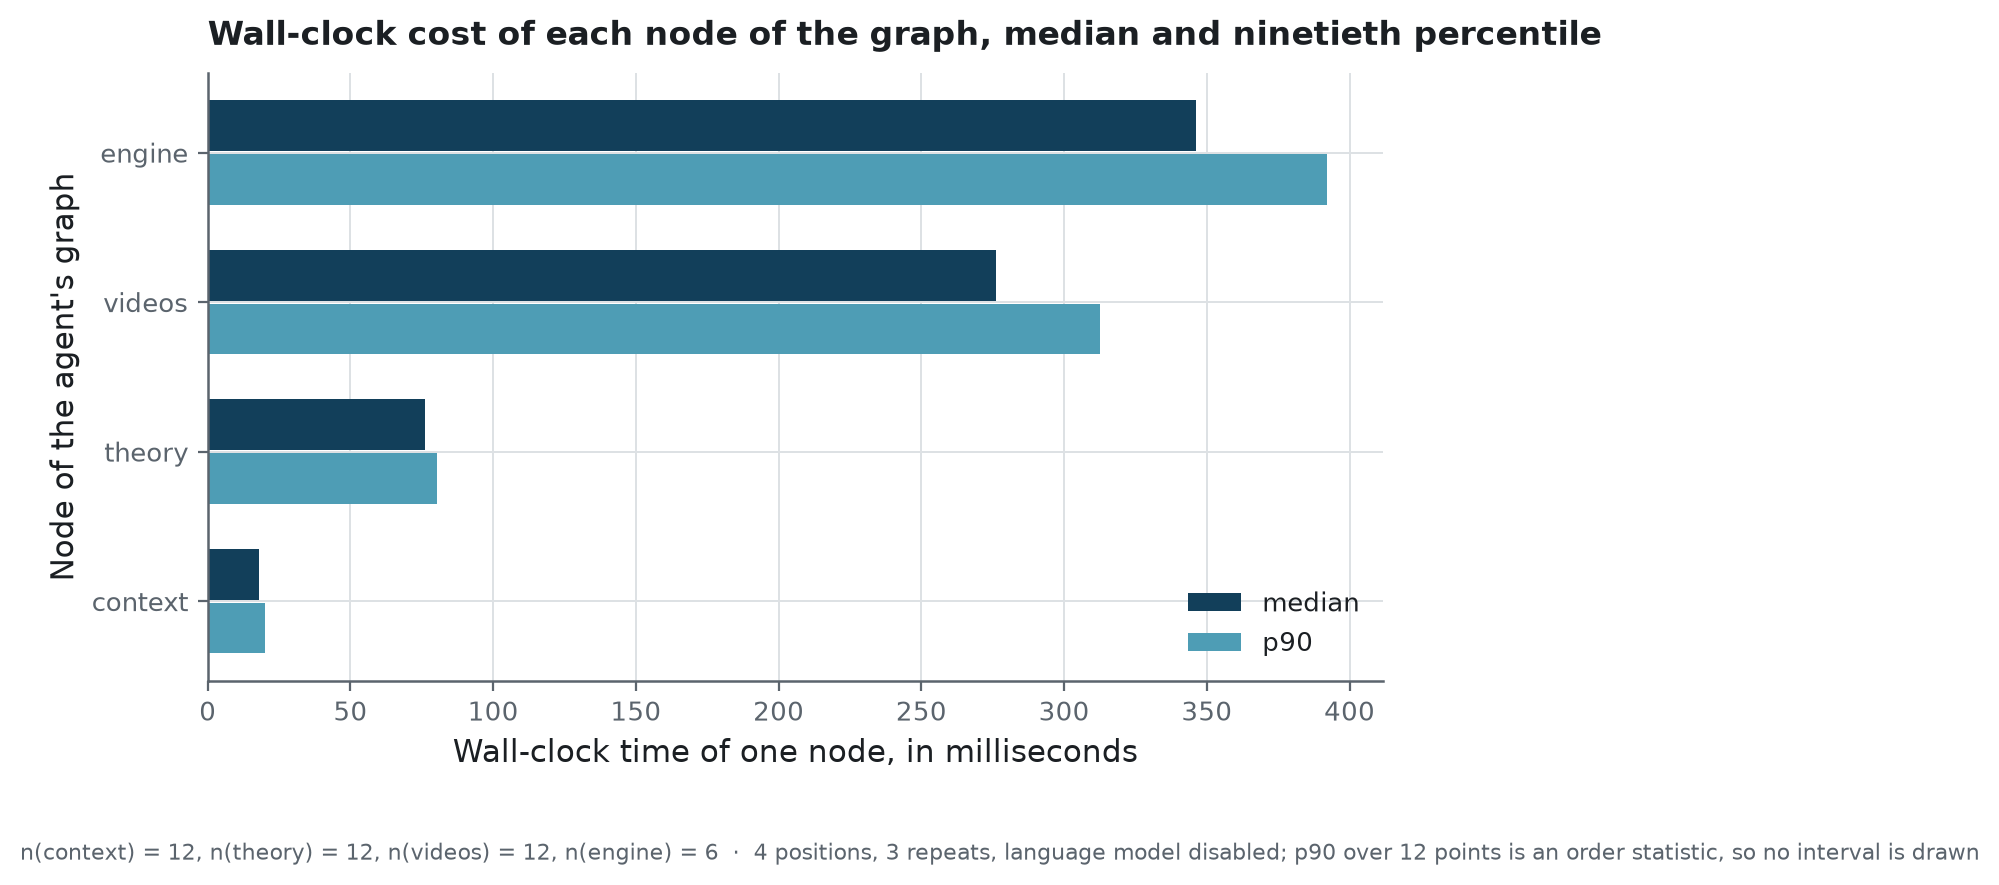
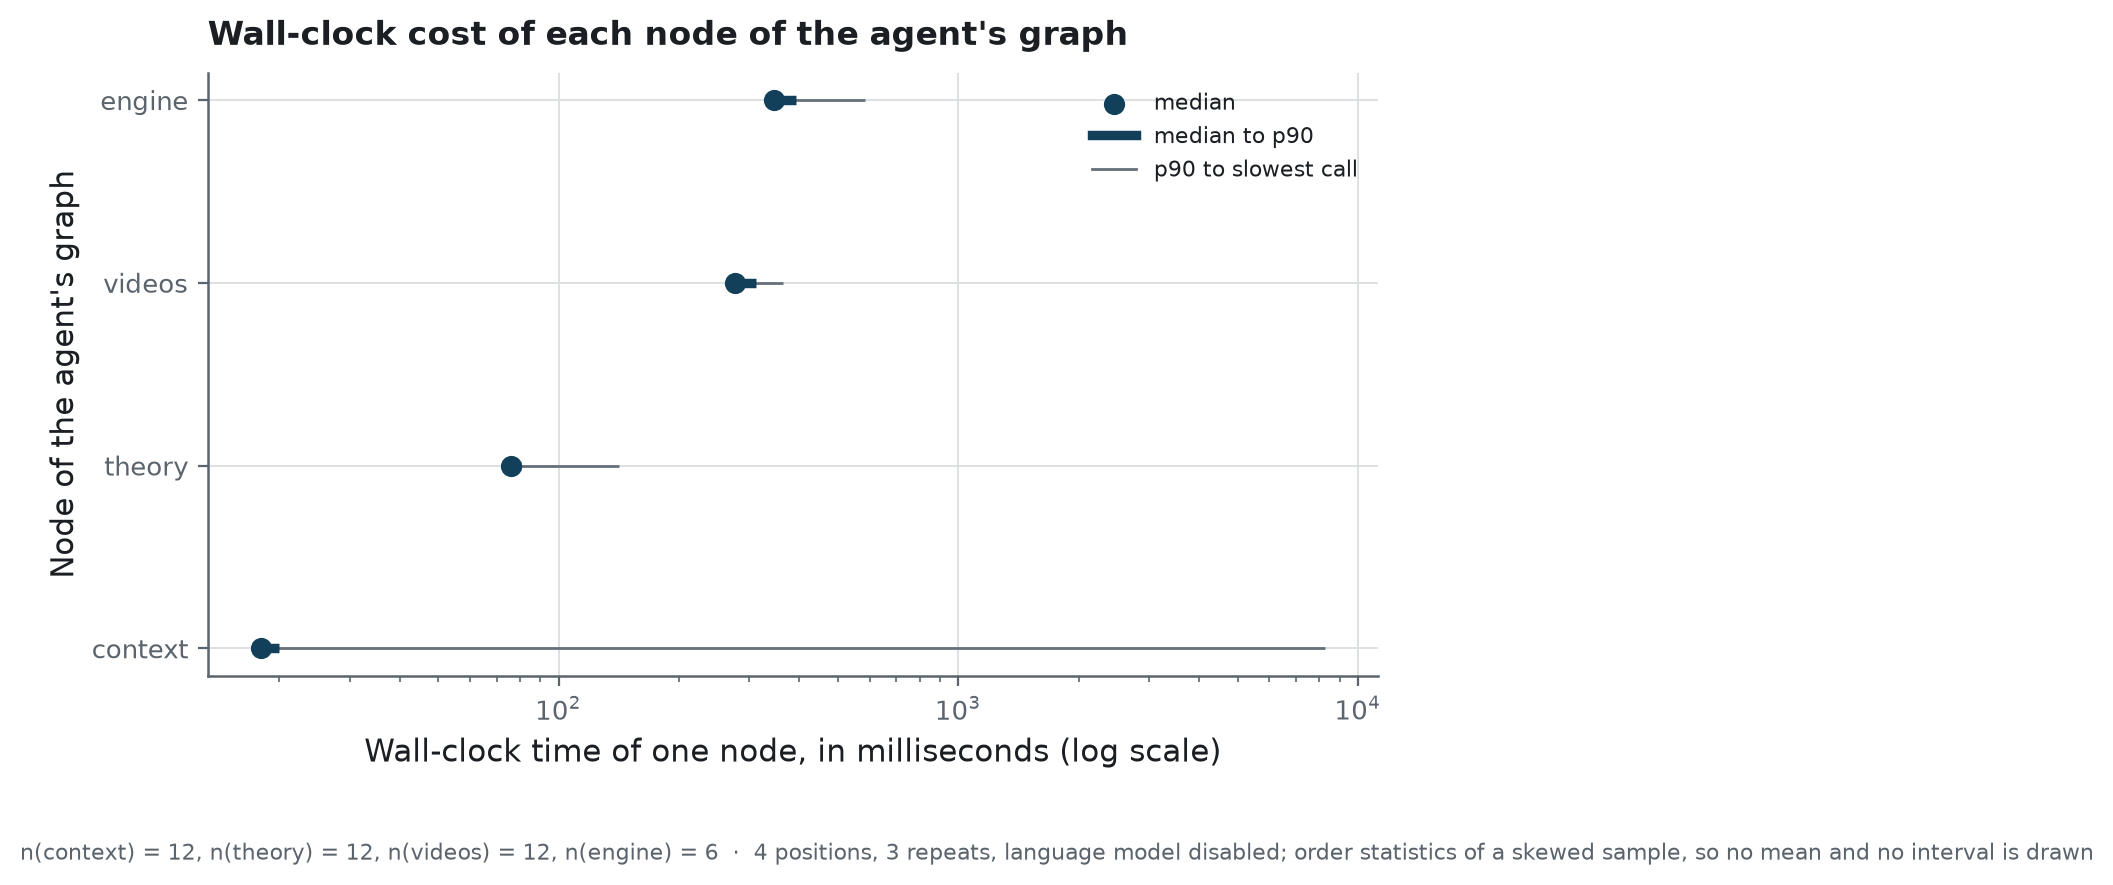
fix(figures): draw latency as order statistics on a log scale

diff --git a/backend/src/chess_coach/figure_style.py b/backend/src/chess_coach/figure_style.py
@@ -1,4 +1,4 @@
-# Figure style v1 — generated 2026-09-15. Copy: edit the source, not this file.
+# Figure style v1 — generated 2026-09-16. Copy: edit the source, not this file.
 
 """Figure style: one palette, one writer, and a refusal to publish an unreadable figure.
 
@@ -169,6 +169,172 @@ def series_colours(
             colours[name] = SERIES[slot]
             slot += 1
     return colours
+
+
+#: Below this many values a cloud of points reads as noise rather than as a distribution.
+DOTS_NEED = 6
+
+
+def distribution(
+    ax: Any,
+    positions: Sequence[float],
+    groups: Sequence[Sequence[float]],
+    *,
+    orient: str = "v",
+    colours: Sequence[str] | None = None,
+    width: float = 0.62,
+    jitter: float = 0.16,
+    seed: int = 20260916,
+    dot_size: float = 15.0,
+    dot_alpha: float = 0.55,
+    label: str | None = None,
+) -> dict[str, list[float]]:
+    """Every individual as a point, the mean as a rule, and the standard error around it.
+
+    A mean drawn alone hides the sample it came from: two groups with the same mean and
+    opposite spreads become the same picture. Here every value is drawn, and the reader can
+    see the sample before reading the summary of it.
+
+    Above ``DOTS_NEED`` values the mean is a short horizontal rule and nothing is filled: the
+    points carry the comparison, so the axis is free to start where the data does. Below it,
+    four points read as noise rather than as a distribution, so the mean becomes a bar from
+    zero — the bar is what makes the comparison legible — and the points sit on top of it, so
+    that no individual is hidden by the summary.
+
+    The error bar is the **standard error of the mean**, which is what a reader comparing two
+    means needs. A standard deviation describes the sample, not the precision of its mean;
+    when that is the intended message, draw it yourself and name it.
+
+    The jitter comes from a seeded generator, so the same values give the same picture. A
+    figure that moved on every regeneration could not be compared with the one it replaces.
+    """
+
+    import numpy as np
+
+    if orient not in {"v", "h"}:
+        raise ValueError("orient is 'v' or 'h'")
+    if len(positions) != len(groups):
+        raise ValueError(f"{len(positions)} positions for {len(groups)} groups")
+
+    scatterer = np.random.default_rng(seed)
+    means: list[float] = []
+    sems: list[float] = []
+    counts: list[int] = []
+
+    for index, (centre, values) in enumerate(zip(positions, groups, strict=True)):
+        sample = np.asarray(list(values), dtype=float)
+        sample = sample[~np.isnan(sample)]
+        n = int(sample.size)
+        counts.append(n)
+        if n == 0:
+            means.append(float("nan"))
+            sems.append(float("nan"))
+            continue
+        mean = float(sample.mean())
+        sem = float(sample.std(ddof=1) / np.sqrt(n)) if n > 1 else 0.0
+        means.append(mean)
+        sems.append(sem)
+
+        colour = colours[index] if colours is not None else SERIES[index % len(SERIES)]
+        spread = centre + scatterer.uniform(-jitter, jitter, size=n)
+        first = label if index == 0 else None
+
+        if n >= DOTS_NEED:
+            left, right = centre - width / 2, centre + width / 2
+            if orient == "v":
+                ax.scatter(
+                    spread,
+                    sample,
+                    s=dot_size,
+                    color=colour,
+                    alpha=dot_alpha,
+                    linewidths=0,
+                    zorder=2,
+                )
+                ax.hlines(mean, left, right, color=colour, linewidth=2.2, zorder=3)
+                if sem:
+                    ax.errorbar(
+                        centre,
+                        mean,
+                        yerr=sem,
+                        fmt="none",
+                        ecolor=colour,
+                        elinewidth=1.6,
+                        capsize=5,
+                        zorder=4,
+                        label=first,
+                    )
+            else:
+                ax.scatter(
+                    sample,
+                    spread,
+                    s=dot_size,
+                    color=colour,
+                    alpha=dot_alpha,
+                    linewidths=0,
+                    zorder=2,
+                )
+                ax.vlines(mean, left, right, color=colour, linewidth=2.2, zorder=3)
+                if sem:
+                    ax.errorbar(
+                        mean,
+                        centre,
+                        xerr=sem,
+                        fmt="none",
+                        ecolor=colour,
+                        elinewidth=1.6,
+                        capsize=5,
+                        zorder=4,
+                        label=first,
+                    )
+        elif orient == "v":
+            ax.bar(centre, mean, width=width, color=colour, alpha=0.85, zorder=1)
+            if sem:
+                ax.errorbar(
+                    centre,
+                    mean,
+                    yerr=sem,
+                    fmt="none",
+                    ecolor=PALETTE["ink"],
+                    elinewidth=1.4,
+                    capsize=5,
+                    zorder=3,
+                    label=first,
+                )
+            ax.scatter(
+                spread,
+                sample,
+                s=dot_size + 6,
+                color=PALETTE["ink"],
+                alpha=0.8,
+                linewidths=0,
+                zorder=4,
+            )
+        else:
+            ax.barh(centre, mean, height=width, color=colour, alpha=0.85, zorder=1)
+            if sem:
+                ax.errorbar(
+                    mean,
+                    centre,
+                    xerr=sem,
+                    fmt="none",
+                    ecolor=PALETTE["ink"],
+                    elinewidth=1.4,
+                    capsize=5,
+                    zorder=3,
+                    label=first,
+                )
+            ax.scatter(
+                sample,
+                spread,
+                s=dot_size + 6,
+                color=PALETTE["ink"],
+                alpha=0.8,
+                linewidths=0,
+                zorder=4,
+            )
+
+    return {"mean": means, "sem": sems, "n": counts}
 
 
 def reference_line(

diff --git a/backend/scripts/build_figures.py b/backend/scripts/build_figures.py
@@ -18,6 +18,7 @@ import csv
 import json
 
 import matplotlib.pyplot as plt
+import numpy as np
 
 from chess_coach.figure_style import PALETTE, apply_style, close, save_figure
 from chess_coach.utils.paths import FIGURES_DIR, LATENCY_JSON, THRESHOLD_SWEEP_CSV
@@ -82,36 +83,57 @@ def routing_plateau() -> None:
 
 
 def latency_by_node() -> None:
-    """What each node of the graph costs, median and ninetieth percentile."""
+    """Each measurement where the run recorded them, and the order statistics otherwise.
+
+    Two bars per node — the median beside the ninetieth percentile — asked the eye to compare
+    two lengths that are not independent: the p90 of a sample contains its median, and a bar
+    chart says the opposite. A latency is also not symmetric around its middle, so a mean and
+    an interval would describe a shape it does not have. What is drawn is the median, the
+    stretch from it to the p90, and the thin tail out to the slowest call.
+    """
     payload = json.loads(LATENCY_JSON.read_text(encoding="utf-8"))
     nodes = payload["nodes"]
     order = sorted(nodes, key=lambda name: nodes[name]["median_ms"])
-
-    medians = [nodes[name]["median_ms"] for name in order]
-    p90s = [nodes[name]["p90_ms"] for name in order]
     positions = range(len(order))
 
     fig, ax = plt.subplots()
-    ax.barh(
-        [position + 0.18 for position in positions],
-        medians,
-        height=0.34,
-        color=PALETTE["primary"],
-        label="median",
-    )
-    ax.barh(
-        [position - 0.18 for position in positions],
-        p90s,
-        height=0.34,
-        color=PALETTE["tertiary"],
-        label="p90",
-    )
+    scatterer = np.random.default_rng(20260916)
+    for position, name in zip(positions, order, strict=True):
+        node = nodes[name]
+        samples = [float(value) for value in node.get("samples_ms") or []]
+        if samples:
+            ax.scatter(
+                samples,
+                position + scatterer.uniform(-0.16, 0.16, size=len(samples)),
+                s=16,
+                color=PALETTE["tertiary"],
+                alpha=0.55,
+                linewidths=0,
+                zorder=2,
+            )
+        ax.hlines(
+            position, node["median_ms"], node["max_ms"],
+            color=PALETTE["control"], linewidth=1.0, zorder=3,
+        )
+        ax.hlines(
+            position, node["median_ms"], node["p90_ms"],
+            color=PALETTE["primary"], linewidth=3.4, zorder=4,
+        )
+        ax.scatter(
+            [node["median_ms"]], [position], s=44, color=PALETTE["primary"], zorder=5,
+            label="median" if position == 0 else None,
+        )
+    ax.plot([], [], color=PALETTE["primary"], linewidth=3.4, label="median to p90")
+    ax.plot([], [], color=PALETTE["control"], linewidth=1.0, label="p90 to slowest call")
+    # Logarithmic, because the four nodes span 18 ms to 8 seconds: on a linear axis the one
+    # cold start of the context node flattens the other three into the same pixel column.
+    ax.set_xscale("log")
     ax.set_yticks(list(positions))
     ax.set_yticklabels(order)
-    ax.set_xlabel("Wall-clock time of one node, in milliseconds")
+    ax.set_xlabel("Wall-clock time of one node, in milliseconds (log scale)")
     ax.set_ylabel("Node of the agent's graph")
-    ax.set_title("Wall-clock cost of each node of the graph, median and ninetieth percentile")
-    ax.legend(loc="lower right")
+    ax.set_title("Wall-clock cost of each node of the agent's graph")
+    ax.legend(loc="upper right", fontsize=8, frameon=False)
 
     counts = {name: nodes[name]["n"] for name in order}
     _breathe(fig)
@@ -120,8 +142,8 @@ def latency_by_node() -> None:
         FIGURES_DIR / "latency_by_node.png",
         n=counts,
         source=SOURCE,
-        note="4 positions, 3 repeats, language model disabled; p90 over 12 points is an "
-        "order statistic, so no interval is drawn",
+        note="4 positions, 3 repeats, language model disabled; order statistics of a skewed "
+        "sample, so no mean and no interval is drawn",
     )
     close(fig)
 

diff --git a/backend/scripts/bench_agent.py b/backend/scripts/bench_agent.py
@@ -106,6 +106,10 @@ def main() -> None:
         "nodes": {
             node: {
                 "n": len(values),
+                # Every measurement, not only the summary of them: a figure that shows
+                # twelve points says whether a median of 18 ms came from twelve values at
+                # 18 or from six at 5 and six at 40.
+                "samples_ms": [round(value, 2) for value in sorted(values)],
                 "median_ms": round(statistics.median(values), 1),
                 "p90_ms": round(sorted(values)[max(0, int(len(values) * 0.9) - 1)], 1),
                 "max_ms": round(max(values), 1),
